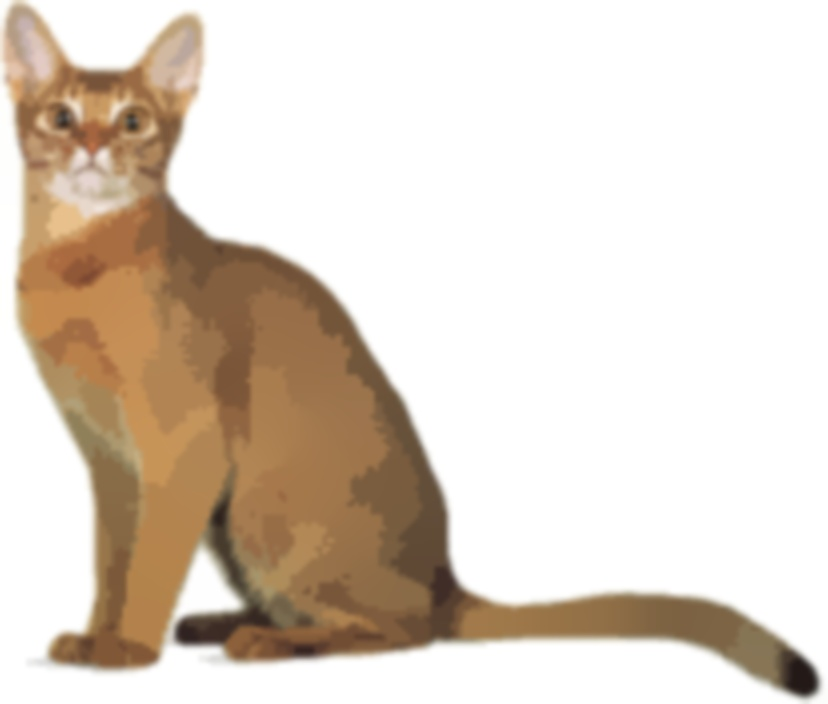
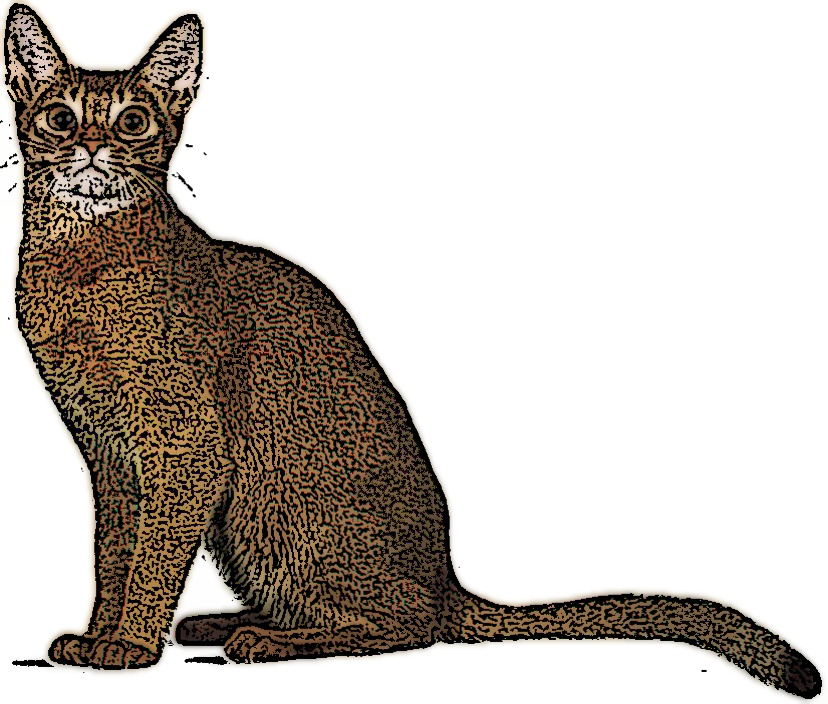
source code

Changed region(s): [[0.0, 0.0, 0.9964, 1.0]]

diff --git a/May 29/Cartonize.py b/May 29/Cartonize.py
@@ -13,7 +13,16 @@ def cartoonizeEffect(img_rgb):
     for i in range(2):
         img_color = cv2.pyrUp(img_color)
 
-    return img_color
+    img_gray = cv2.cvtColor(img_rgb, cv2.COLOR_RGB2GRAY)
+    img_blur = cv2.medianBlur(img_gray, 3)
+
+    img_edge = cv2.adaptiveThreshold(img_blur, 255, cv2.ADAPTIVE_THRESH_MEAN_C, cv2.THRESH_BINARY, 9, 2)
+
+    (x,y,z) = img_color.shape
+    img_edge = cv2.resize(img_edge, (y,x))
+    img_edge = cv2.cvtColor(img_edge, cv2.COLOR_GRAY2RGB)
+
+    return cv2.bitwise_and(img_color, img_edge)
 
 file_name = "Picture.jpg"
 result = cartoonizeEffect(file_name)
